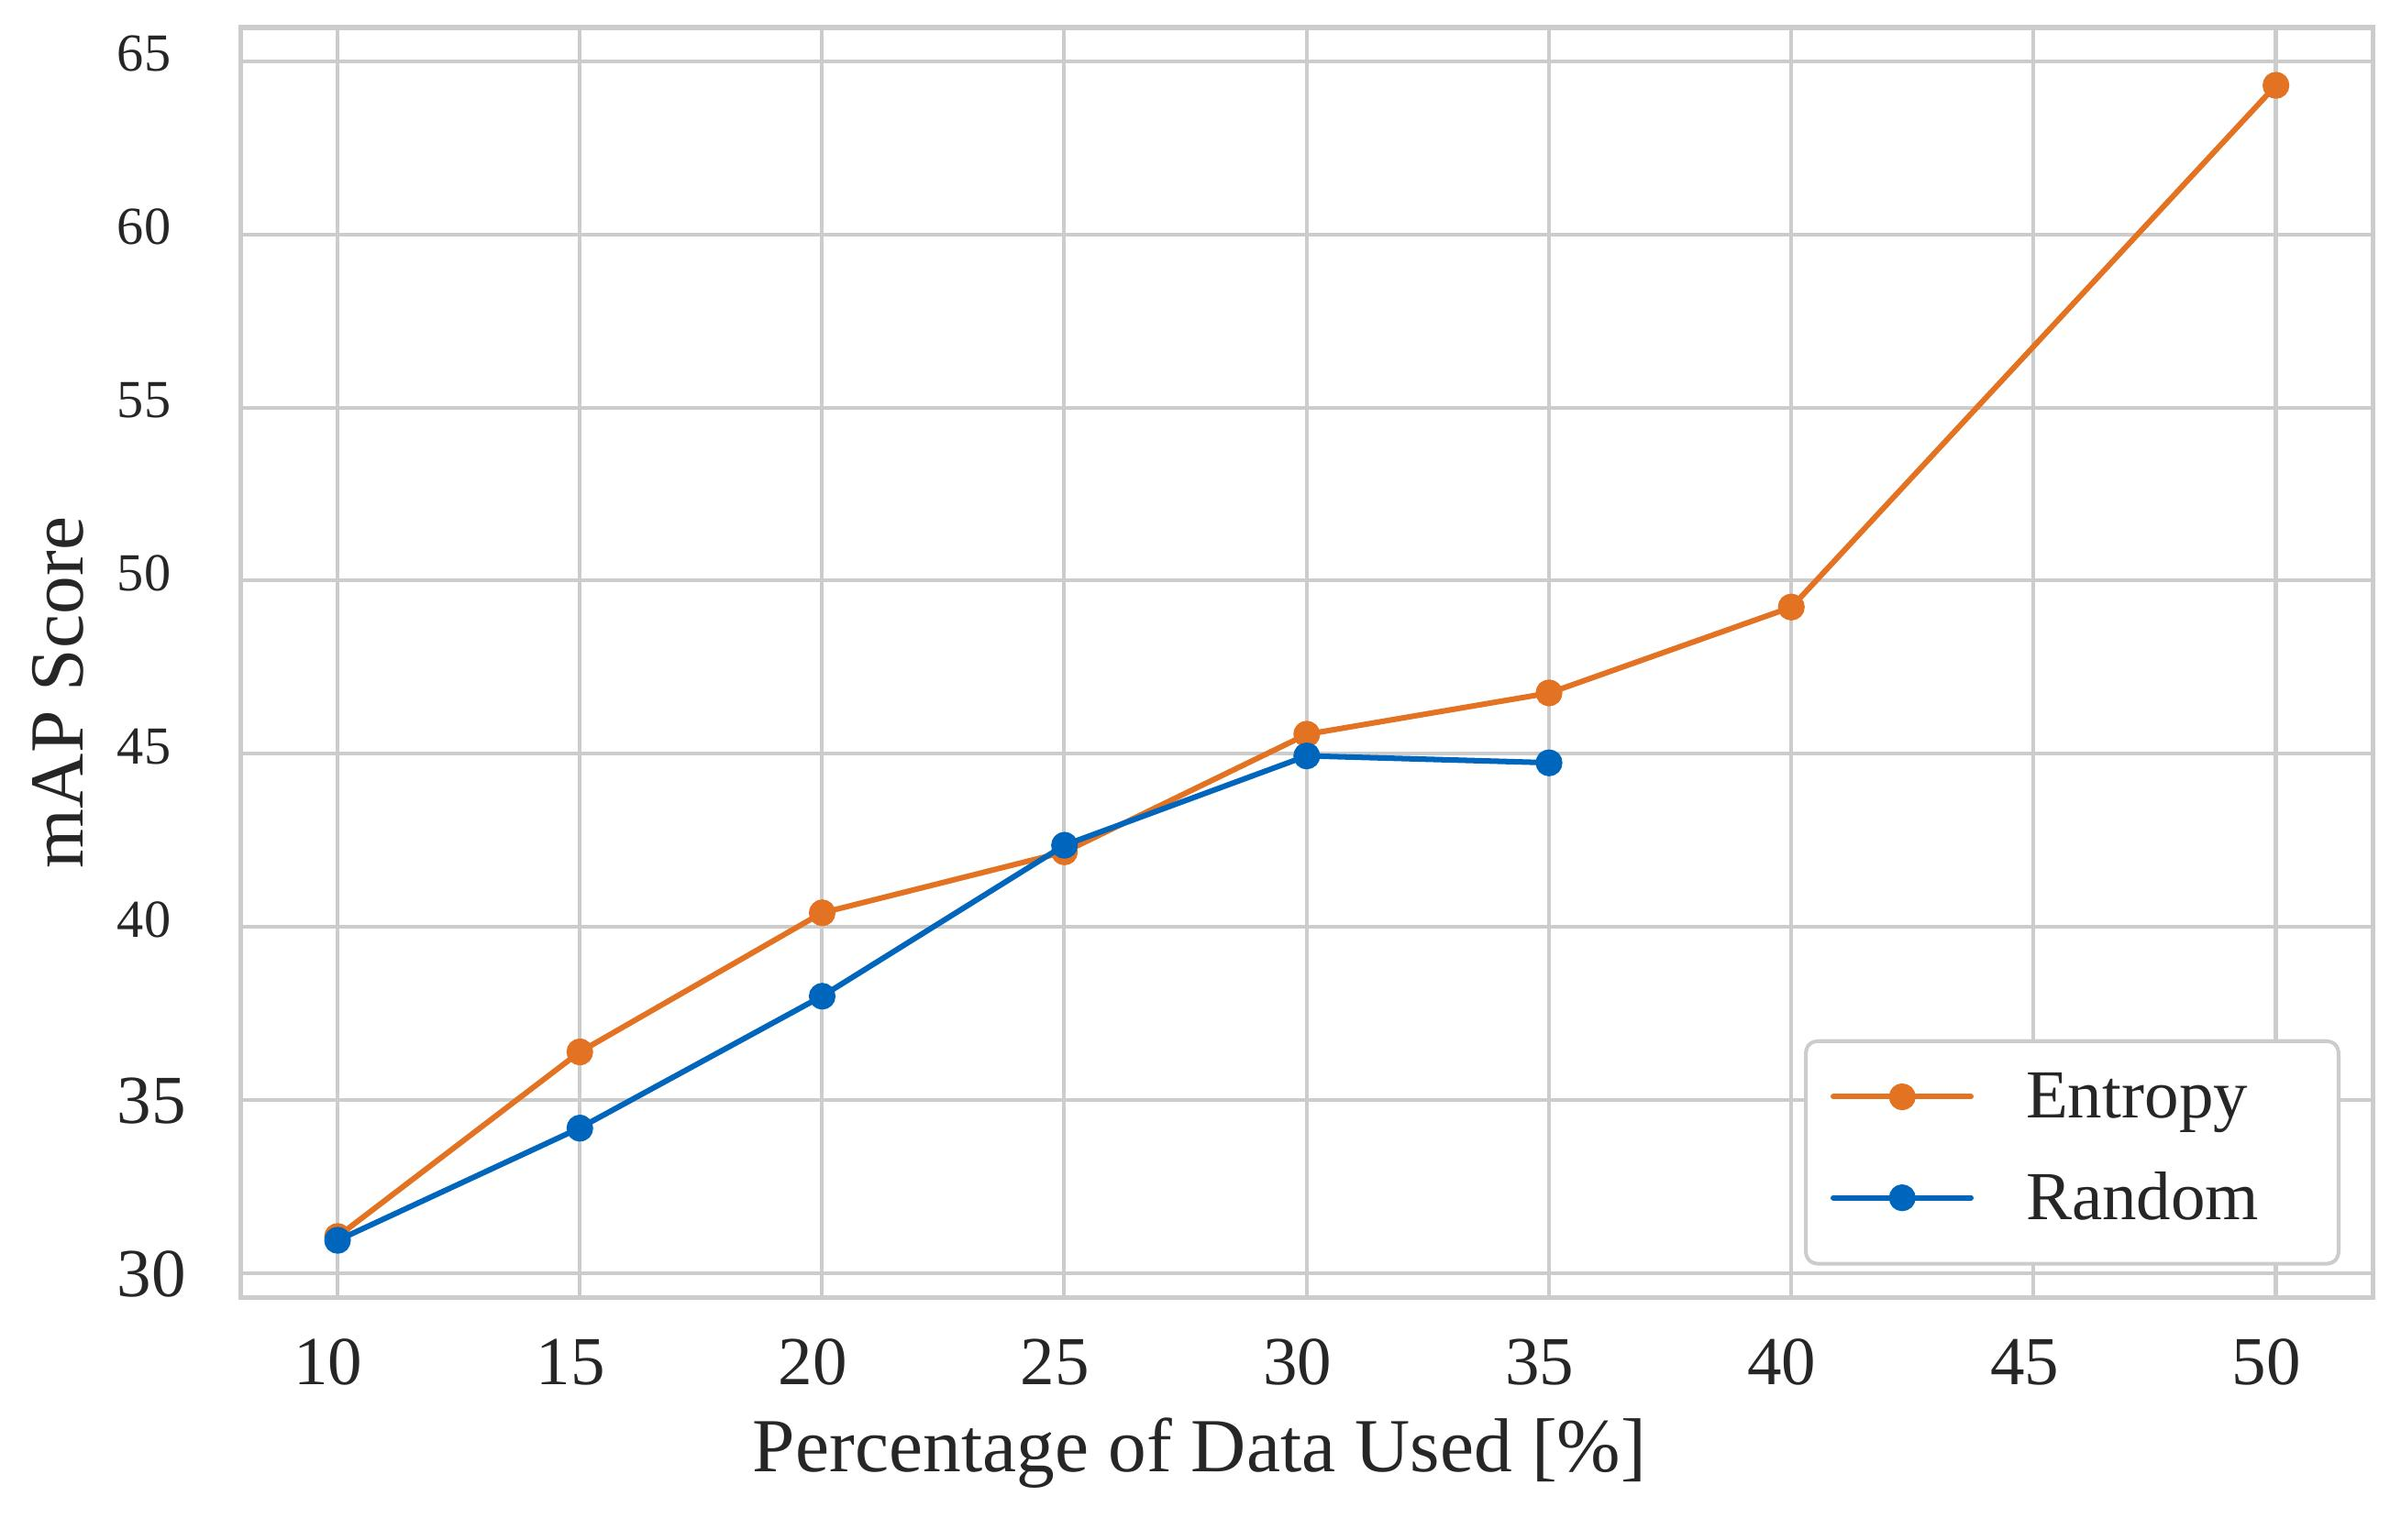
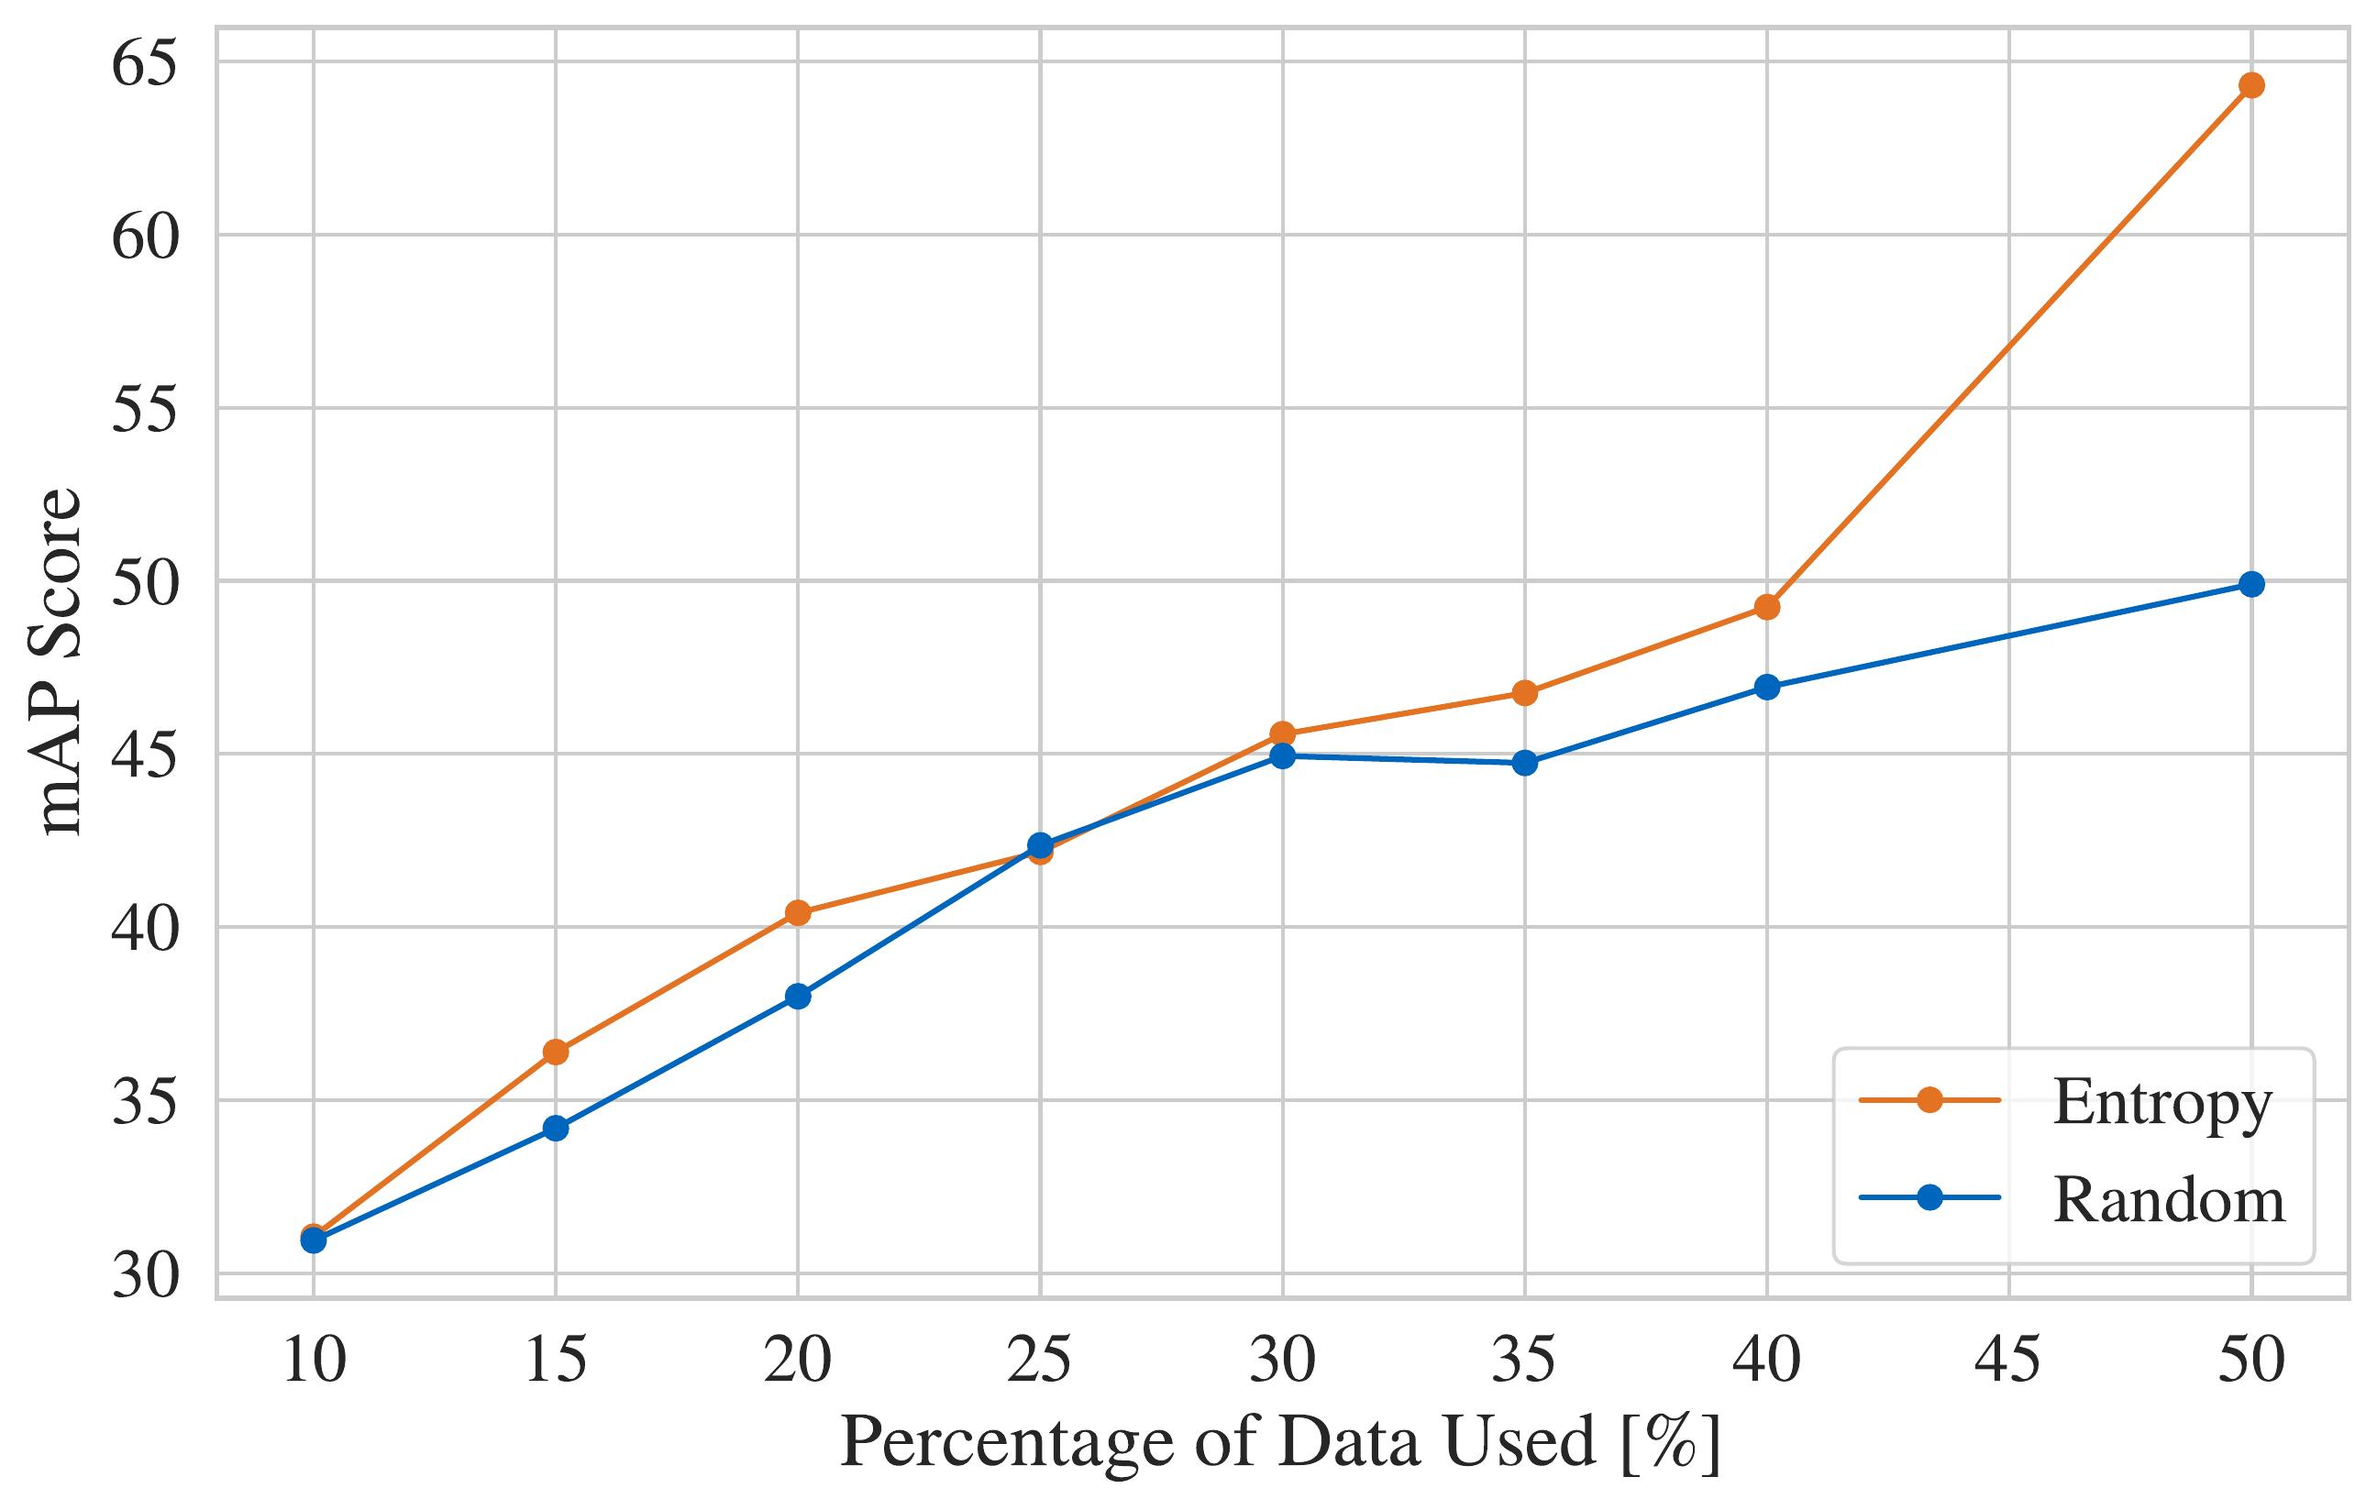
update final submission

diff --git a/README.md b/README.md
@@ -7,11 +7,9 @@
 ![figure](img/title_figure.jpg)
 : We propose a framework for efficient active learning within various 3D object detection techniques and modalities,
 demonstrating the effectiveness of active learning at reaching comparable detection performance on benchmark datasets at
-a
-fraction of the annotation cost. Datasets include roadside infrastructure sensors (top row) and onboard vehicle
-sensors (bottom
-row), with LiDAR-only and LiDAR+camera fusion methods, the two dominant strategies in state-of-the-art performance at
-the safety-critical detection task.
+a fraction of the annotation cost. Datasets include roadside infrastructure sensors (top row) and onboard vehicle
+sensors (bottom row), with LiDAR-only and LiDAR+camera fusion methods, the two dominant strategies in state-of-the-art performance at
+the safety-critical detection task. We use the entropy active learning sampling strategy to select the most informative data.
 
 This is the official implementation of our paper:
 
@@ -32,7 +30,7 @@ In summary:
 3. We show that we can achieve almost the same performance with <b>PV-RCNN</b> and the <i>entropy-based</i> query
    strategy when using only half of the training data (<b>77.25 mAP</b> compared to <b>83.50 mAP</b>) of the <b>TUM
    Traffic Intersection</b> dataset.
-4. <b>BEVFusion</b> achieved an <b>mAP of 64.31</b> when using half of the training data and <b>75.0 mAP</b> when using
+4. <b>BEVFusion</b> achieved an <b>mAP of 64.31</b> when using half of the training data and <b>77.25 mAP</b> when using
    the complete <b>nuScenes</b> dataset.
 5. We integrate our active learning framework into the <b>proAnno</b> labeling tool to enable AI-assisted data selection
    and labeling and minimize the labeling costs.
@@ -193,9 +191,9 @@ complete dataset. Both results are quite similar, showing the efficiency of the 
     <tr>
         <td>5</td>
         <td>30</td>
-        <td>77.25</td>
+        <td><u>77.25</u></td>
         <td><u>76.56</u> <p style="display:inline;color:red;font-size:80%;">(-0.69)</p></td>
-        <td><strong>44.94</strong></td>
+        <td>44.94</td>
         <td>45.57 <p style="display:inline;color:forestgreen;font-size:80%;">(+0.63)</p></td>
     </tr>
     <tr>
@@ -203,15 +201,15 @@ complete dataset. Both results are quite similar, showing the efficiency of the 
         <td>35</td>
         <td>75.40</td>
         <td>75.00 <p style="display:inline;color:red;font-size:80%;">(-0.40)</p></td>
-        <td><u>44.74</u></td>
+        <td>44.74</td>
         <td>46.76 <p style="display:inline;color:forestgreen;font-size:80%;">(+2.02)</p></td>
     </tr>
     <tr>
         <td>7</td>
         <td>40</td>
-        <td><u>77.03</u></td>
+        <td>77.03</td>
         <td>75.48 <p style="display:inline;color:red;font-size:80%;">(-1.55)</p></td>
-        <td>-</td>
+        <td><u>46.93</u></td>
         <td><u>49.24</u></td>
     </tr>
     <tr>
@@ -219,14 +217,14 @@ complete dataset. Both results are quite similar, showing the efficiency of the 
         <td>50</td>
         <td><strong>79.09</strong></td>
         <td><strong>77.25</strong> <p style="display:inline;color:red;font-size:80%;">(-1.84)</p></td>
-        <td>-</td>
+        <td><strong>49.90</strong></td>
         <td><strong>64.31</strong></td>
     </tr>
     <tr bgcolor="lightgray">
         <td><strong>SOA (No AL)</strong></td>
         <td><strong>100</strong></td>
         <td colspan="2" style="text-align: center"><strong>83.50</strong></td>
-        <td colspan="2" style="text-align: center"><strong>75.00</strong></td>
+        <td colspan="2" style="text-align: center"><strong>52.88</strong></td>
     </tr>
 </table>
 </center>
@@ -236,8 +234,14 @@ Evaluation of the PV-RCNN (LiDAR-only) and BEVFusion (camera+LiDAR) model using 
 
 Our baseline is the Active3D framework [Active3D](https://github.com/Luoyadan/CRB-active-3Ddet/tree/main), an active
 learning framework for 3D object detection, proposing the CRB query strategy that assesses the point cloud data
-informativeness based on 3 data characteristics: 3D box class distribution, feature representativeness, and point
-density distribution.
+informativeness based on three data characteristics: 3D box class distribution, feature representativeness, and point
+density distribution. This research was supported by the Federal Ministry of Education and Research in Germany within the
+AUTOtech.agil project (01IS22088U). The publication was partly written at Virtual Vehicle Research GmbH in Graz,
+Austria. The authors acknowledge the financial support within the COMET K2 Competence Centers for Excellent
+Technologies from the Austrian Federal Ministry for Climate Action (BMK), the Austrian Federal Ministry for Labour and
+Economy (BMAW), the Province of Styria (Dept. 12) and the Styrian Business Promotion Agency (SFG). The Austrian
+Research Promotion Agency (FFG) has been authorized for the program management. The authors thank Qualcomm for
+the support of the Qualcomm Innovation Fellowship.
 
 ## Citation
 
